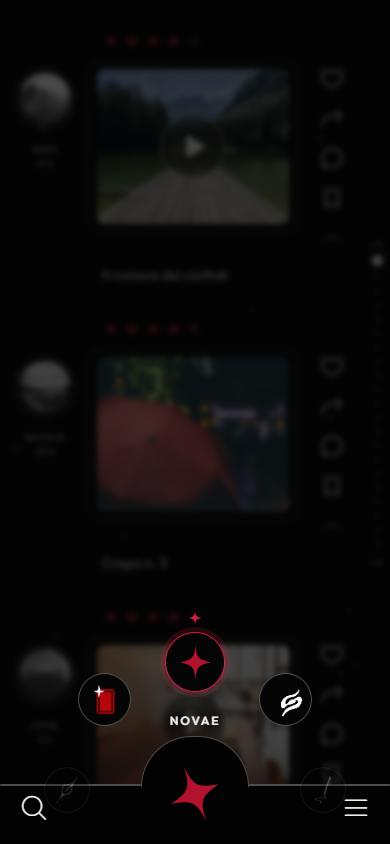
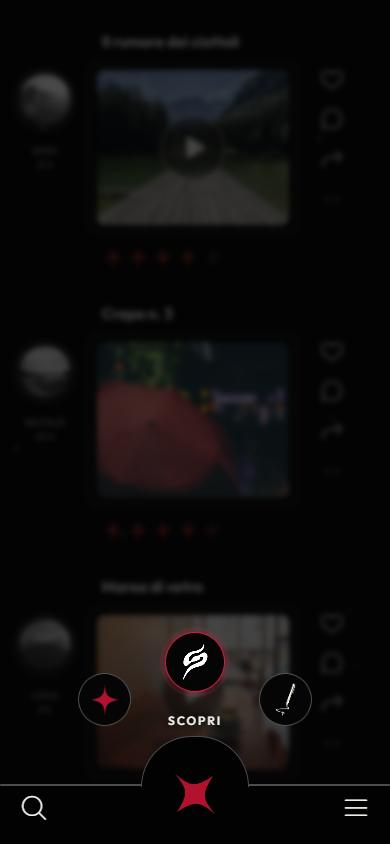
Barra sotto e Galleria
- Ripremendo la stella la ruota si richiude: i tasti rientrano nella stella
  girando all'indietro (l'area di trascinamento non copre più la stella)
- Tolta la mini stella sopra il tasto selezionato
- Girando, i tasti sfumano prima di arrivare alla barra e non ci vanno sopra
- Galleria ora mostra le discipline (prima in Stile), con Cinematografia;
  Stile per ora mostra le opere degli artisti che segui

diff --git a/app.js b/app.js
@@ -276,7 +276,8 @@
      wheel.rot is in degrees; the item whose angle ends up at 12 o'clock is the selected one. */
   const WHEEL = HUB;
   const STEP = 360 / WHEEL.length, R = 128;
-  const wheel = { rot: 0, vel: 0, raf: 0, drag: null, sel: -1, live: false, snapT: 0 };
+  const wheel = { rot: 0, r: 0, vel: 0, raf: 0, drag: null, sel: -1, live: false, snapT: 0 }; // r: current radius (0 = tucked into the star)
+  const FADE_FROM = 45, HIDE_AT = 70; // degrees from 12 o'clock: buttons fade out before they could reach the bar
   const norm = a => ((a % 360) + 540) % 360 - 180; // -> [-180, 180), 0 = top
   const selIndex = () => ((Math.round(-wheel.rot / STEP) % WHEEL.length) + WHEEL.length) % WHEEL.length;
   const snapRot = r => Math.round(r / STEP) * STEP;
@@ -285,17 +286,17 @@
   function renderArc() {
     $('#arc').innerHTML = `
       <div class="wheel-hit"></div>
-      <svg class="wheel-mark" aria-hidden="true"><use href="#star4"/></svg>
       <div class="wheel-label" id="wheelLabel" aria-live="polite"></div>
       ${WHEEL.map((it, i) => `<a class="arc-item" data-k="${it.k}" data-i="${i}" href="#${it.k}" tabindex="-1" aria-label="${it.l.replace('<br>', ' ')}"><span class="arc-circle i-${it.k}">${icon(it.k)}</span></a>`).join('')}`;
   }
   function layoutWheel() {
+    const k = wheel.r / R; // 0 while tucked into the star, 1 when fully out
     $$('.arc-item').forEach((el, i) => {
       const a = norm(i * STEP + wheel.rot);
       const rad = a * Math.PI / 180, abs = Math.abs(a);
-      const s = 1 - .3 * Math.min(1, abs / 110);
-      const o = abs > 100 ? 0 : Math.min(1, 1 - (abs - 55) / 45); // side slots fade so they don't crowd the dock icons
-      el.style.transform = `translate(calc(-50% + ${(R * Math.sin(rad)).toFixed(1)}px), calc(-50% + ${(-R * Math.cos(rad)).toFixed(1)}px)) scale(${s.toFixed(3)})`;
+      const s = (1 - .3 * Math.min(1, abs / 110)) * (.3 + .7 * k);
+      const o = (abs >= HIDE_AT ? 0 : Math.min(1, (HIDE_AT - abs) / (HIDE_AT - FADE_FROM))) * k;
+      el.style.transform = `translate(calc(-50% + ${(wheel.r * Math.sin(rad)).toFixed(1)}px), calc(-50% + ${(-wheel.r * Math.cos(rad)).toFixed(1)}px)) scale(${s.toFixed(3)})`;
       el.style.opacity = o.toFixed(2);
       el.style.pointerEvents = o > .3 ? '' : 'none';
       el.classList.toggle('sel', abs < STEP / 2);
@@ -308,18 +309,21 @@
       if (wheel.live) { try { navigator.vibrate?.(4); } catch { /* unsupported */ } }
     }
   }
-  function spinTo(target, dur, done) {
+  // Animate rotation and radius together (opening, closing, snapping)
+  function animateWheel(toRot, toR, dur, done, easeIn = false) {
     cancelAnimationFrame(wheel.raf);
-    const from = wheel.rot, t0 = performance.now();
-    if (reduceMotion || dur <= 0) { wheel.rot = target; layoutWheel(); done?.(); return; }
+    const fromRot = wheel.rot, fromR = wheel.r, t0 = performance.now();
+    if (reduceMotion || dur <= 0) { wheel.rot = toRot; wheel.r = toR; layoutWheel(); done?.(); return; }
     const step = now => {
-      const k = Math.min(1, (now - t0) / dur), e = 1 - Math.pow(1 - k, 3);
-      wheel.rot = from + (target - from) * e;
+      const k = Math.min(1, (now - t0) / dur), e = easeIn ? k * k * k : 1 - Math.pow(1 - k, 3);
+      wheel.rot = fromRot + (toRot - fromRot) * e;
+      wheel.r = fromR + (toR - fromR) * e;
       layoutWheel();
       if (k < 1) wheel.raf = requestAnimationFrame(step); else done?.();
     };
     wheel.raf = requestAnimationFrame(step);
   }
+  const spinTo = (target, dur, done) => animateWheel(target, wheel.r, dur, done);
   function coast() { // momentum after a flick, then snap onto the nearest section
     if (reduceMotion) { spinTo(snapRot(wheel.rot), 0); return; }
     const step = () => {
@@ -338,29 +342,36 @@
   }
   function setArc(open) {
     const arc = $('#arc');
-    const was = arc.classList.contains('open');
-    const cur = document.body.dataset.screen === 'disciplina' ? 'stile' : document.body.dataset.screen;
+    const was = arc.classList.contains('open') && !arc.classList.contains('closing');
+    const cur = document.body.dataset.screen === 'disciplina' ? 'galleria' : document.body.dataset.screen;
     $$('.arc-item').forEach(a => a.classList.toggle('current', a.dataset.k === cur));
-    arc.classList.toggle('open', open);
     $('#scrim').classList.toggle('open', open);
     $('#dockStar').setAttribute('aria-expanded', open);
     $('#dockStar').setAttribute('aria-label', open ? 'Chiudi ruota' : 'Apri ruota delle sezioni');
     $$('.arc-item').forEach(a => a.tabIndex = open ? 0 : -1);
     $('#dock').classList.toggle('spinning', open);
     if (open && !was) {
-      // start on the section you're in, and spin in to it
+      // the buttons come out of the star, spinning in to the section you're in
       const k = Math.max(0, WHEEL.findIndex(h => h.k === cur));
+      arc.classList.remove('closing');
+      arc.classList.add('open');
       wheel.live = false;
+      wheel.r = 0;
       wheel.rot = -k * STEP + (reduceMotion ? 0 : 150);
       wheel.sel = -1;
       layoutWheel();
-      spinTo(-k * STEP, 750, () => { wheel.live = true; });
+      animateWheel(-k * STEP, R, 700, () => { wheel.live = true; });
     }
     if (!open && was) {
-      cancelAnimationFrame(wheel.raf);
+      // the buttons go back into the star, spinning the other way, then the wheel closes
       wheel.drag = null;
+      wheel.live = false;
       arc.classList.remove('dragging');
-      $('#dockStar svg').style.transform = '';
+      arc.classList.add('closing');
+      animateWheel(wheel.rot + 90, 0, 360, () => {
+        arc.classList.remove('open', 'closing');
+        $('#dockStar svg').style.transform = '';
+      }, true);
     }
   }
 
@@ -369,7 +380,7 @@
     const arc = $('#arc');
     const angleAt = (e, c) => Math.atan2(e.clientX - c.x, -(e.clientY - c.y)) * 180 / Math.PI;
     arc.addEventListener('pointerdown', e => {
-      if (!arc.classList.contains('open') || e.button > 0) return;
+      if (!arc.classList.contains('open') || arc.classList.contains('closing') || e.button > 0) return;
       cancelAnimationFrame(wheel.raf);
       const r = arc.getBoundingClientRect();
       const c = { x: r.left, y: r.top };
@@ -409,7 +420,7 @@
     arc.addEventListener('pointerup', end);
     arc.addEventListener('pointercancel', end);
     arc.addEventListener('wheel', e => {
-      if (!arc.classList.contains('open')) return;
+      if (!arc.classList.contains('open') || arc.classList.contains('closing')) return;
       e.preventDefault();
       cancelAnimationFrame(wheel.raf);
       wheel.live = true;
@@ -517,7 +528,7 @@
     $('#disciplines').innerHTML = DISCIPLINES.map((d, i) => {
       const ws = WORKS.filter(w => w.disc === d);
       const thumbs = (ws.length ? ws : WORKS.slice(i * 2)).slice(0, 3);
-      return `<a class="disc ${i === 0 ? 'active' : ''}" href="#stile/${d.toLowerCase()}">
+      return `<a class="disc ${i === 0 ? 'active' : ''}" href="#galleria/${d.toLowerCase()}">
         <div><h2>${d}</h2><p>${ws.length ? `${ws.length} opere` : 'In arrivo'}</p></div>
         <div class="disc-thumbs">${thumbs.map((w, k) => `<img src="${pic(w.id, 120, 150)}" alt="" loading="lazy" style="--r:${(k - 1) * 7}deg">`).join('')}</div>
       </a>`;
@@ -544,14 +555,14 @@
     const name = DISCIPLINES.find(d => d.toLowerCase() === (slug || '').toLowerCase()) || 'Cinematografia';
     const root = $('#cine');
     if (name !== 'Cinematografia') {
-      root.innerHTML = `<button class="cine-back icon-btn" data-act="back" data-fallback="#stile" aria-label="Indietro"><i class="ph-light ph-caret-left"></i></button>
+      root.innerHTML = `<button class="cine-back icon-btn" data-act="back" data-fallback="#galleria" aria-label="Indietro"><i class="ph-light ph-caret-left"></i></button>
         <h1 class="cine-title">${name}</h1>
         <div class="empty">${starSvg()}<strong>Sala in allestimento</strong><p>La sezione ${name.toLowerCase()} apre nella prossima alpha. Intanto trovi nuove opere in Scopri.</p><a class="btn-ghost" href="#scopri">Apri Scopri</a></div>`;
       return;
     }
     const tabs = ['Serie', 'Film', 'Classifica', 'Ordina per'];
     root.innerHTML = `
-      <button class="cine-back icon-btn" data-act="back" data-fallback="#stile" aria-label="Indietro"><i class="ph-light ph-caret-left"></i></button>
+      <button class="cine-back icon-btn" data-act="back" data-fallback="#galleria" aria-label="Indietro"><i class="ph-light ph-caret-left"></i></button>
       <h1 class="cine-title">${name}</h1>
       <div class="tabs" role="tablist">${tabs.map(t => `<button class="tab" role="tab" data-act="ctab" data-v="${t}" aria-selected="${t === cineState.tab || (t === 'Ordina per' && cineState.sortOpen)}">${t}</button>`).join('')}</div>
       ${cineState.sortOpen ? `<div class="sortmenu" role="menu" style="top:${0}px">${[['recenti', 'Più recenti'], ['stelle', 'Più stelle'], ['visti', 'Più visti']].map(([v, l]) => `<button role="menuitemradio" aria-checked="${cineState.sort === v}" data-act="csort" data-v="${v}">${l}</button>`).join('')}</div>` : ''}
@@ -958,8 +969,8 @@
     hub: renderHub,
     scopri: renderFeed,
     vista: renderVista,
-    galleria: renderSeguiti,
-    stile: renderStile,
+    galleria: renderStile,
+    stile: renderSeguiti,
     disciplina: renderCine,
     opera: renderDetail,
     novae: initGlobe,
@@ -981,10 +992,10 @@
     curHash = location.hash;
     if (trail.length > 1 && trail[trail.length - 2] === curHash) trail.pop(); else trail.push(curHash);
     let [name, param] = decodeURIComponent(location.hash.slice(1)).split('/');
-    if (name === 'seguiti') name = 'galleria'; // old links
+    if (name === 'seguiti') name = 'stile'; // old link to the followed-artists works
     if (!store.get('novae.in')) name = 'invito';
     else if (!name || name === 'invito' || !(name in RENDER)) name = 'hub';
-    if (name === 'stile' && param) name = 'disciplina';
+    if (name === 'galleria' && param) name = 'disciplina';
     const screen = name === 'artista' ? 'profilo' : name;
     setArc(false);
     closeSheet();
@@ -1249,7 +1260,7 @@
     const typing = /INPUT|TEXTAREA|SELECT/.test(document.activeElement?.tagName);
     const scr = document.body.dataset.screen;
     if (e.key === 'Escape') { setArc(false); closeSheet(); $('#search').hidden = true; return; }
-    if ($('#arc').classList.contains('open')) {
+    if ($('#arc').classList.contains('open') && !$('#arc').classList.contains('closing')) {
       const dir = { ArrowRight: -1, ArrowDown: -1, ArrowLeft: 1, ArrowUp: 1 }[e.key];
       if (dir) { e.preventDefault(); wheel.live = true; spinTo(snapRot(wheel.rot) + dir * STEP, 260); return; }
       if (e.key === 'Enter' && !e.target.closest?.('.arc-item')) { e.preventDefault(); wheelGo(selIndex()); return; }

diff --git a/index.html b/index.html
@@ -12,10 +12,10 @@
   <link href="https://fonts.googleapis.com/css2?family=Outfit:wght@300;400;500;600&display=swap" rel="stylesheet">
   <link rel="stylesheet" href="https://cdn.jsdelivr.net/npm/@phosphor-icons/web@2.1.1/src/light/style.css">
   <link rel="stylesheet" href="https://cdn.jsdelivr.net/npm/@phosphor-icons/web@2.1.1/src/fill/style.css">
-  <link rel="stylesheet" href="styles.css?v=29">
+  <link rel="stylesheet" href="styles.css?v=30">
   <script src="https://cdn.jsdelivr.net/npm/d3@7.9.0/dist/d3.min.js" defer></script>
   <script src="https://cdn.jsdelivr.net/npm/topojson-client@3.1.0/dist/topojson-client.min.js" defer></script>
-  <script src="app.js?v=29" defer></script>
+  <script src="app.js?v=30" defer></script>
 </head>
 <body data-screen="invito">
 
@@ -72,17 +72,17 @@
       <div class="vista" id="vista"></div>
     </section>
 
-    <!-- 5. Galleria (opere degli artisti che segui) -->
-    <section class="screen wide" data-screen="galleria" aria-label="Galleria">
-      <header class="page-head"><h1 class="hand">Galleria</h1><p>Le opere degli artisti che segui</p></header>
-      <div class="pills seguiti-pills" id="galleryPills" role="tablist"></div>
-      <div class="masonry" id="masonry"></div>
+    <!-- 5. Galleria: le discipline (Cinematografia, Pittura, ...) -->
+    <section class="screen" data-screen="galleria" aria-label="Galleria">
+      <header class="page-head"><h1 class="hand">Galleria</h1></header>
+      <div class="disciplines" id="disciplines"></div>
     </section>
 
-    <!-- 6. Stile (discipline) -->
-    <section class="screen" data-screen="stile" aria-label="Stile">
-      <header class="page-head"><h1 class="hand">Stile</h1></header>
-      <div class="disciplines" id="disciplines"></div>
+    <!-- 6. Stile: per ora le opere degli artisti che segui (in attesa del contenuto definitivo) -->
+    <section class="screen wide" data-screen="stile" aria-label="Stile">
+      <header class="page-head"><h1 class="hand">Stile</h1><p>Le opere degli artisti che segui</p></header>
+      <div class="pills seguiti-pills" id="galleryPills" role="tablist"></div>
+      <div class="masonry" id="masonry"></div>
     </section>
 
     <!-- 7. Disciplina (es. Cinematografia) -->

diff --git a/styles.css b/styles.css
@@ -238,19 +238,19 @@ body[data-screen="invito"] .dock, body[data-screen="hub"] .dock { display: none;
 .arc { position: absolute; left: 50%; top: 42px; width: 0; height: 0; pointer-events: none; }
 .arc.open { pointer-events: auto; }
 .wheel-hit {
-  position: absolute; left: -190px; top: -200px; width: 380px; height: 222px; border-radius: 190px 190px 0 0;
+  position: absolute; left: -190px; top: -200px; width: 380px; height: 160px; border-radius: 190px 190px 0 0; /* ends above the star, so the star stays tappable */
   touch-action: none; cursor: grab;
 }
 .arc.dragging .wheel-hit, .arc.dragging .arc-item { cursor: grabbing; }
 .arc:not(.open) .wheel-hit { display: none; }
-.wheel-mark { position: absolute; left: 0; top: -172px; width: 14px; height: 16px; transform: translate(-50%, -50%) scale(.4); fill: var(--accent-hi); opacity: 0; transition: opacity .3s, transform .5s var(--ease); pointer-events: none; }
-.arc.open .wheel-mark { opacity: 1; transform: translate(-50%, -50%); }
 .wheel-label {
   position: absolute; left: 0; top: -70px; transform: translate(-50%, -50%); pointer-events: none;
   font-weight: 700; font-size: 12px; letter-spacing: .16em; text-transform: uppercase; white-space: nowrap;
   text-shadow: 0 0 8px #000, 0 0 14px #000; opacity: 0; transition: opacity .3s;
 }
 .arc.open .wheel-label { opacity: 1; }
+.arc.closing, .arc.closing * { pointer-events: none !important; }
+.arc.closing .wheel-label { opacity: 0; }
 .arc-item {
   position: absolute; left: 0; top: 0; display: grid; place-items: center; opacity: 0;
   transform: translate(-50%, -50%) scale(.3); will-change: transform, opacity; touch-action: none;

diff --git a/README.md b/README.md
@@ -49,9 +49,9 @@ Si entra **solo su invito**: serve il codice (o il QR) di qualcuno che è già d
 - **Novae**: il pianeta con le stelle. Giralo e scopri gli artisti di ogni paese.
 - **Opere a schermo intero**: come Reels e TikTok, scorri su e giù per passare alla prossima. Tocca per mettere in pausa, doppio tocco per il mi piace.
 - **Scheda opera**: player, descrizione completa e opere correlate.
-- **Stile → Cinematografia**: serie, film e classifica, con le righe a gradini per genere (Novae, Thriller, Storico).
+- **Galleria**: le discipline (Cinematografia, Pittura, Fotografia...). In **Cinematografia**: serie, film e classifica, con le righe a gradini per genere (Novae, Thriller, Storico).
 - **Scopri**: il feed delle opere, con valutazione a stelle, mi piace, commenti, condivisione e salvataggi.
-- **Galleria**: le opere degli artisti che segui, filtrabili per artista.
+- **Stile**: per ora, le opere degli artisti che segui, filtrabili per artista.
 - **Mercato**: opere in vendita, con prezzi in crediti.
 - **Profilo, Messaggi, Impostazioni**.
 
@@ -67,7 +67,7 @@ Si entra **solo su invito**: serve il codice (o il QR) di qualcuno che è già d
 | Gesto o tasto | Cosa fa |
 |---|---|
 | Doppio tocco su un'opera | Mi piace |
-| Trascinare la ruota della stella | Scegliere la sezione (anche con rotellina o frecce ← →) |
+| Trascinare la ruota della stella | Scegliere la sezione (anche con rotellina o frecce ← →); ripremere la stella la richiude |
 | Scorrere su e giù nelle opere a schermo intero | Opera precedente o successiva (anche rotellina o frecce ↑ ↓) |
 | Tocco su un'opera a schermo intero | Pausa e ripresa di video e audio |
 | Trascinare giù il feed dall'alto | Aggiornare il feed |
